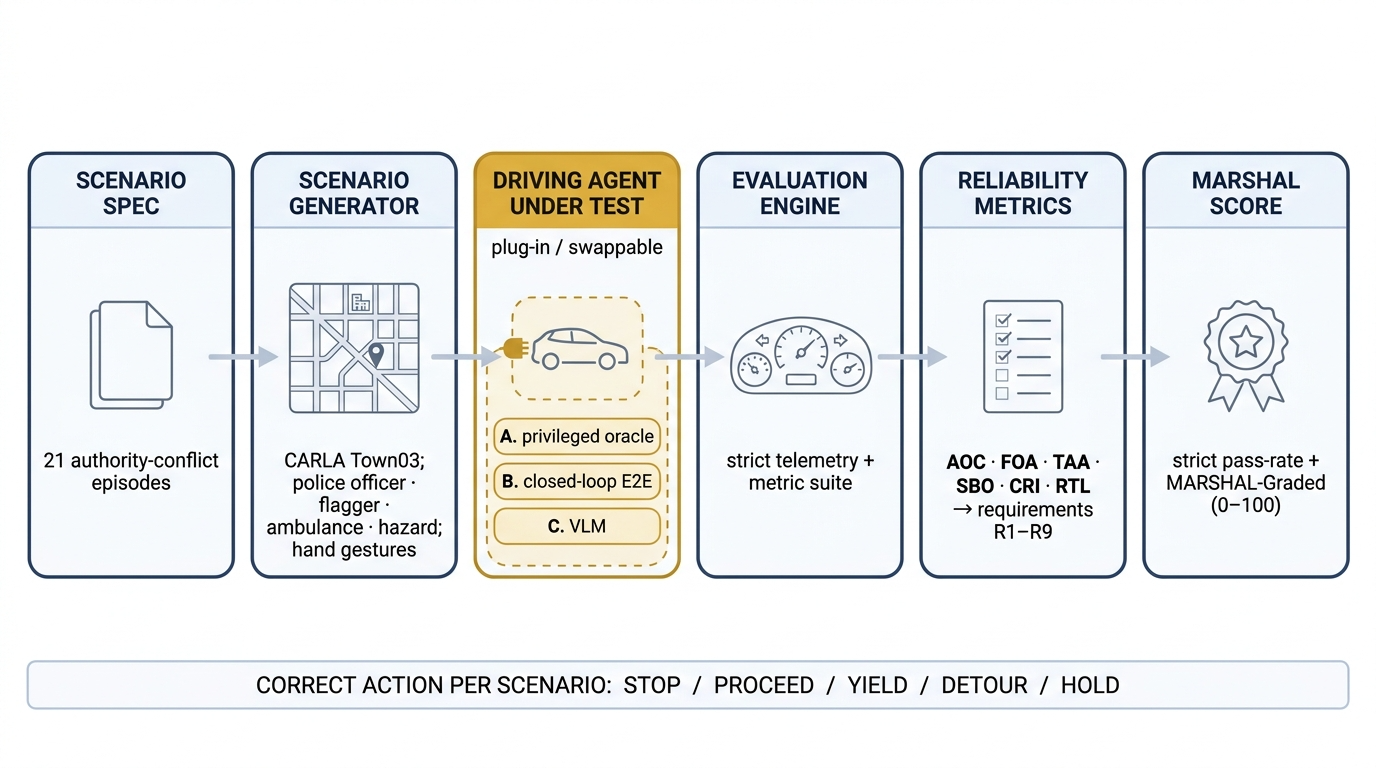
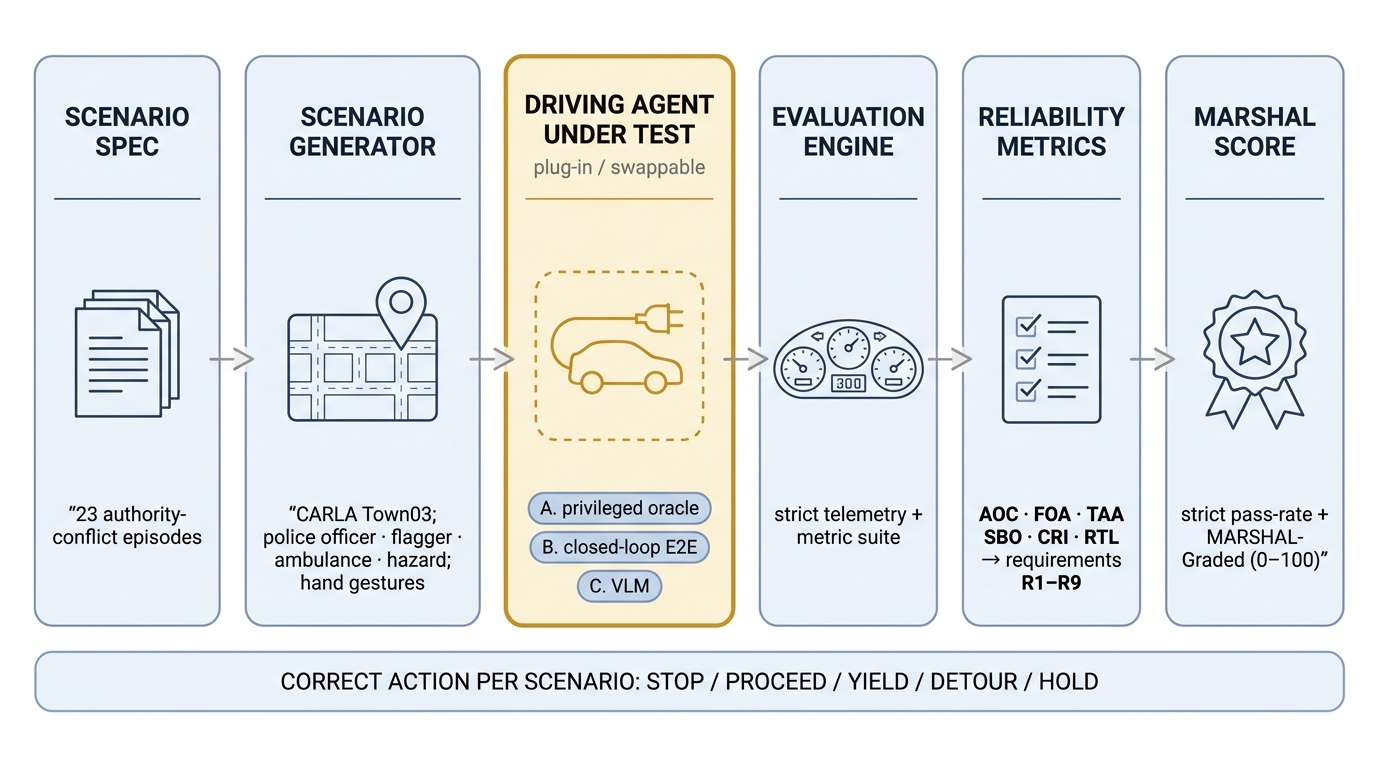
Update pipeline diagram to the 23-scenario suite
Regenerated pipeline.png reads '23 authority-conflict episodes' (was 21);
alt text updated to match. Completes the flat-23 sync — the landing page,
its gallery, and its architecture figure now all reflect the full suite.

Changed region(s): [[0.0, 0.0625, 1.0, 0.9375], [0.8438, 0.0625, 0.9688, 0.0938], [0.0312, 0.0625, 0.1562, 0.0938]]

diff --git a/index.html b/index.html
@@ -338,7 +338,7 @@
       </p>
       <figure class="diagram">
         <div class="frame">
-          <img src="assets/architecture/pipeline.png" alt="MARSHAL pipeline: Scenario Spec (21 authority-conflict episodes) to Scenario Generator (CARLA Town03; officer, flagger, ambulance, hazard, gestures) to Driving Agent under test (plug-in: A privileged oracle, B closed-loop E2E, C VLM) to Evaluation Engine (strict telemetry + metric suite) to Reliability Metrics (AOC, FOA, TAA, SBO, CRI, RTL to R1-R9) to MARSHAL Score (strict pass-rate + MARSHAL-Graded 0-100). Correct action per scenario: STOP / PROCEED / YIELD / DETOUR / HOLD." width="1376" height="768">
+          <img src="assets/architecture/pipeline.png" alt="MARSHAL pipeline: Scenario Spec (23 authority-conflict episodes) to Scenario Generator (CARLA Town03; officer, flagger, ambulance, hazard, gestures) to Driving Agent under test (plug-in: A privileged oracle, B closed-loop E2E, C VLM) to Evaluation Engine (strict telemetry + metric suite) to Reliability Metrics (AOC, FOA, TAA, SBO, CRI, RTL to R1-R9) to MARSHAL Score (strict pass-rate + MARSHAL-Graded 0-100). Correct action per scenario: STOP / PROCEED / YIELD / DETOUR / HOLD." width="1376" height="768">
         </div>
         <figcaption>The model under test occupies a single swappable slot — everything upstream and downstream is held fixed, so scores are comparable across oracle, E2E, and VLM.</figcaption>
       </figure>